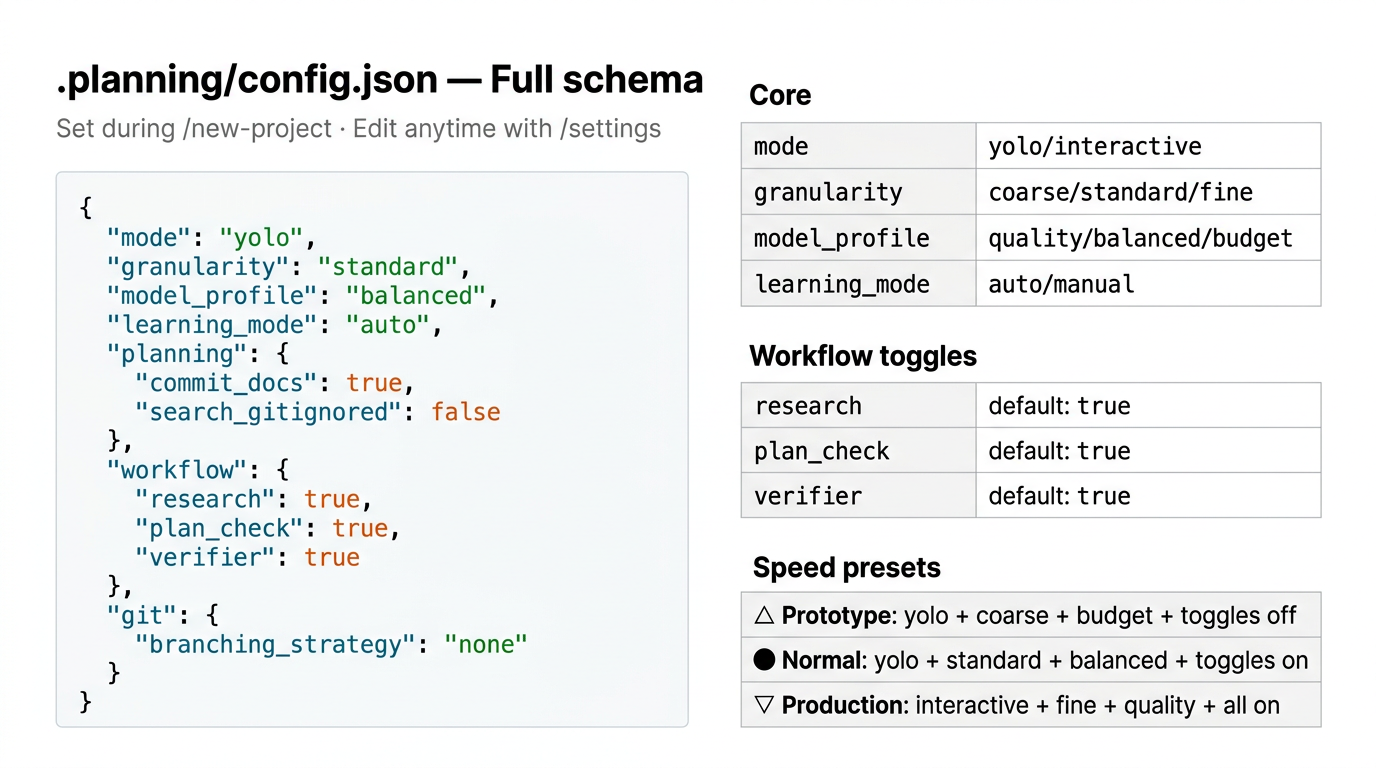
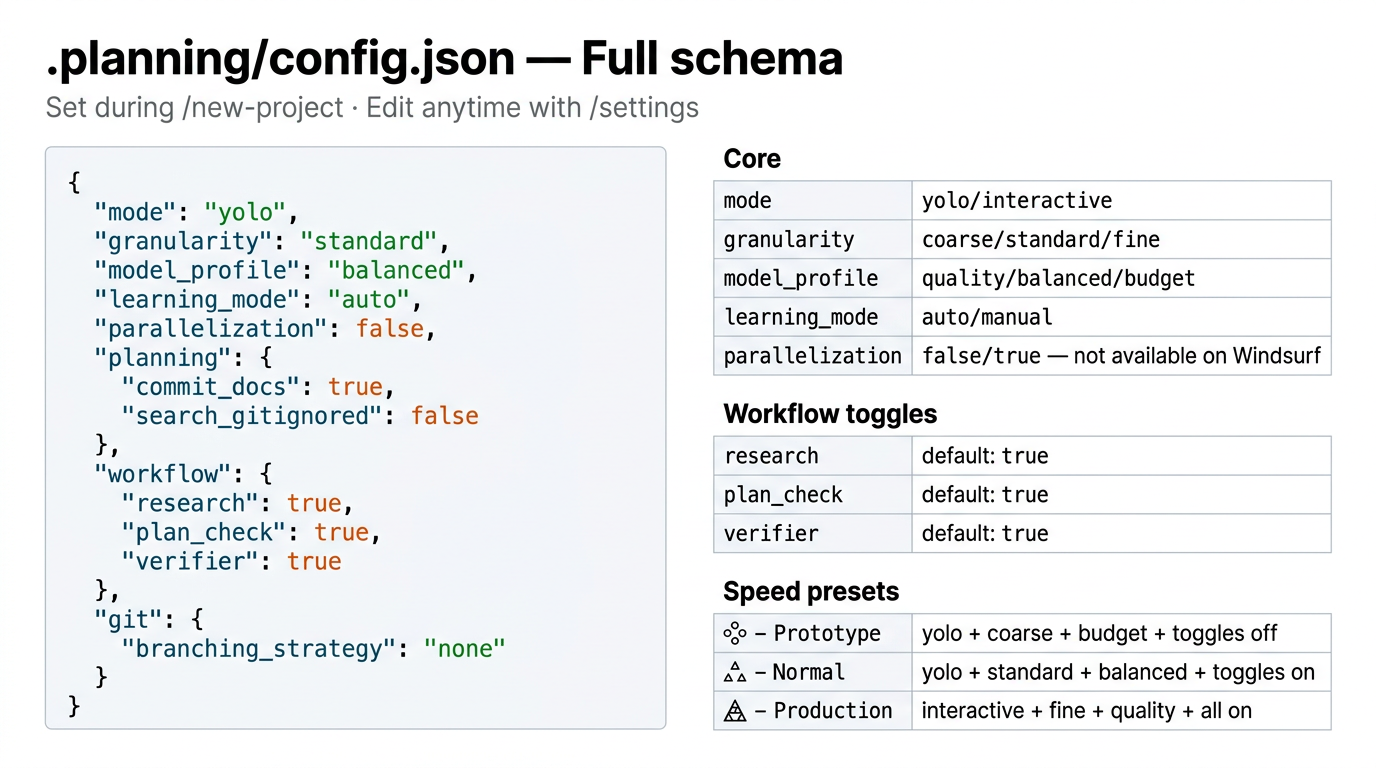
fix: regenerate 3 images (overflow, hallucination, missing parallelization) + add parallelization question to /new-project

diff --git a/.windsurf/workflows/new-project.md b/.windsurf/workflows/new-project.md
@@ -75,6 +75,14 @@ Ask: "Which workflow agents should be enabled?"
 - **Plan Check** (recommended) — Verify plans achieve their goals before execution
 - **Verifier** (recommended) — Confirm deliverables match phase goals after execution
 
+**Group D — Parallel execution (Claude Code, OpenCode, Gemini CLI, Codex CLI only — skip for Windsurf):**
+
+Ask: "Do you want to enable parallel subagent execution?"
+- **No** (recommended default) — Plans execute sequentially, one at a time. Always safe, works on all platforms.
+- **Yes** — Each independent plan in a wave gets its own dedicated subagent with a fresh context budget. Faster but requires a platform that supports real subagents (Claude Code, OpenCode, Gemini CLI, Codex CLI). **Not available on Windsurf.**
+
+> Only ask this question if the platform is not Windsurf. If on Windsurf, always set `parallelization: false`.
+
 Ask: "Commit planning docs to git?"
 - **Yes** (recommended) — Planning docs tracked in version control
 - **No** — Keep `.planning/` local-only
@@ -92,6 +100,7 @@ Create `.planning/config.json` with all settings:
   "commit_docs": true|false,
   "commit_mode": "auto|manual",
   "learning_mode": "auto|manual",
+  "parallelization": false|true,
   "workflow": {
     "research": true|false,
     "plan_check": true|false,

diff --git a/learnship/workflows/new-project.md b/learnship/workflows/new-project.md
@@ -75,6 +75,14 @@ Ask: "Which workflow agents should be enabled?"
 - **Plan Check** (recommended) — Verify plans achieve their goals before execution
 - **Verifier** (recommended) — Confirm deliverables match phase goals after execution
 
+**Group D — Parallel execution (Claude Code, OpenCode, Gemini CLI, Codex CLI only — skip for Windsurf):**
+
+Ask: "Do you want to enable parallel subagent execution?"
+- **No** (recommended default) — Plans execute sequentially, one at a time. Always safe, works on all platforms.
+- **Yes** — Each independent plan in a wave gets its own dedicated subagent with a fresh context budget. Faster but requires a platform that supports real subagents (Claude Code, OpenCode, Gemini CLI, Codex CLI). **Not available on Windsurf.**
+
+> Only ask this question if the platform is not Windsurf. If on Windsurf, always set `parallelization: false`.
+
 Ask: "Commit planning docs to git?"
 - **Yes** (recommended) — Planning docs tracked in version control
 - **No** — Keep `.planning/` local-only
@@ -92,6 +100,7 @@ Create `.planning/config.json` with all settings:
   "commit_docs": true|false,
   "commit_mode": "auto|manual",
   "learning_mode": "auto|manual",
+  "parallelization": false|true,
   "workflow": {
     "research": true|false,
     "plan_check": true|false,
